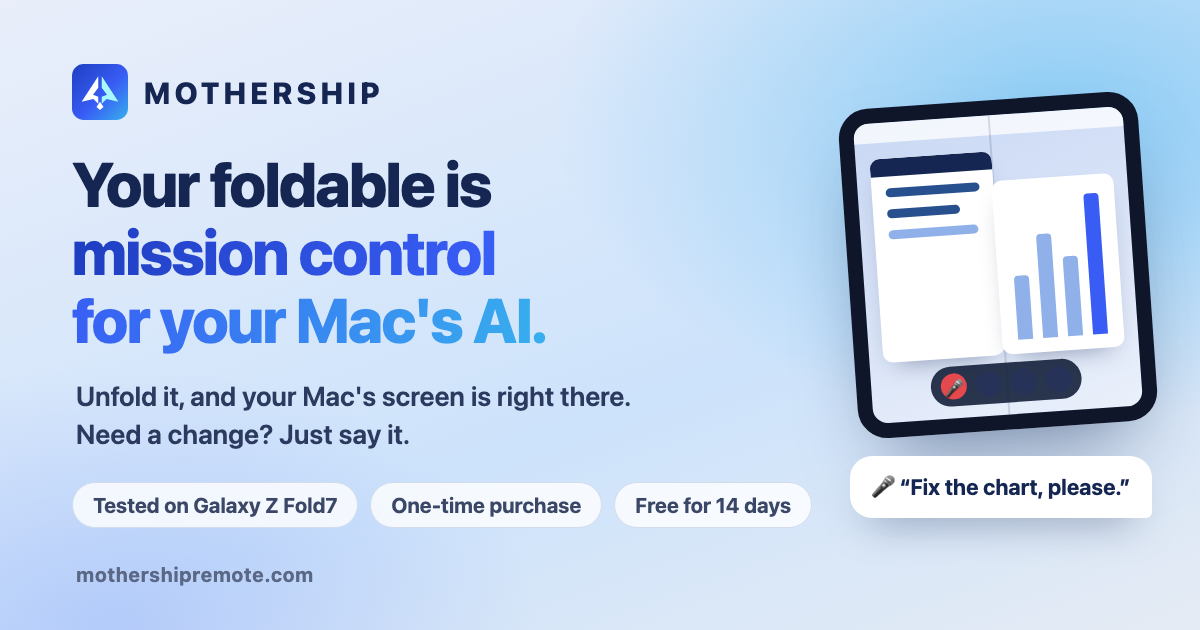
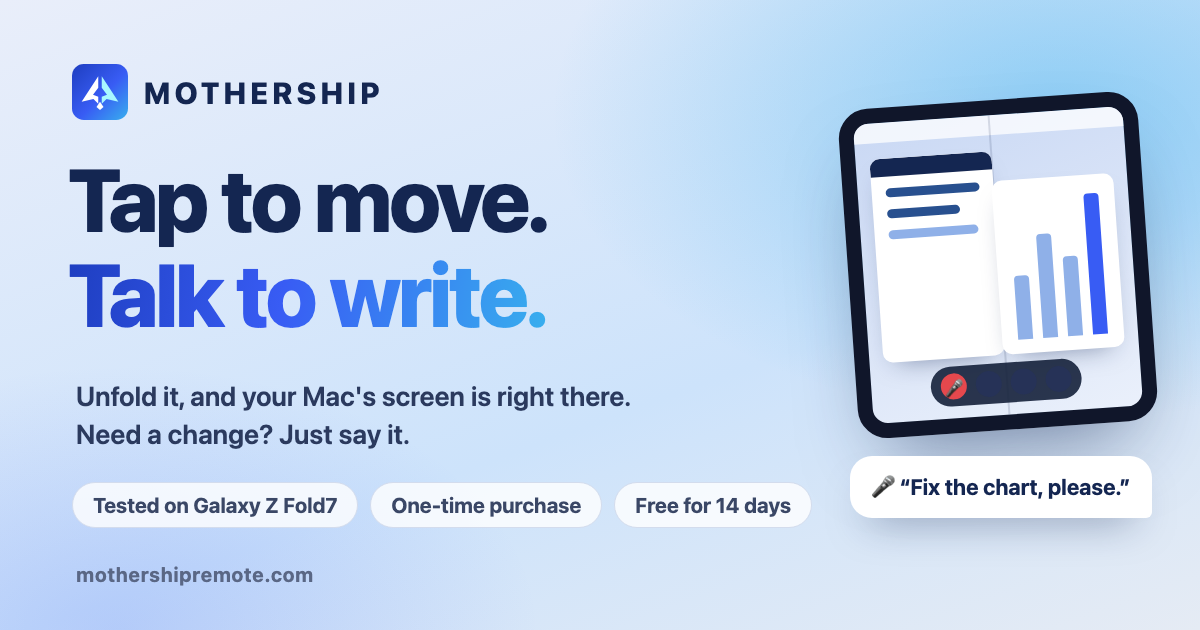
英語版の OGP 画像を新しい見出し「Tap to move. Talk to write.」に：3 行→2 行になった分、見出しを 62→88px に。モックと本番（og-en.png）

Changed region(s): [[0.0617, 0.2413, 0.4625, 0.573]]

diff --git a/mock/design_en/tools/og/og.html b/mock/design_en/tools/og/og.html
@@ -5,7 +5,7 @@ body{font-family:system-ui,-apple-system,"Helvetica Neue",Arial,sans-serif;color
  background:radial-gradient(60% 70% at 88% 18%,rgba(56,175,238,.45),transparent 70%),radial-gradient(50% 60% at 10% 100%,rgba(56,92,244,.18),transparent 70%),linear-gradient(160deg,#e9eefa 0%,#cde3fb 60%,#e5ebf4 100%);position:relative}
 .brand{position:absolute;left:72px;top:64px;display:flex;align-items:center;gap:16px;font-weight:800;font-size:30px;letter-spacing:.14em}
 .brand svg{width:56px;height:56px}
-h1{position:absolute;left:72px;top:150px;font-size:62px;font-weight:800;line-height:1.1;letter-spacing:-.025em}
+h1{position:absolute;left:68px;top:152px;font-size:88px;font-weight:800;line-height:1.08;letter-spacing:-.03em}
 h1 span{background:linear-gradient(100deg,#1e3ec0,#385cf4 45%,#38afee);-webkit-background-clip:text;background-clip:text;color:transparent}
 .lead{position:absolute;left:76px;top:378px;font-size:27px;line-height:1.4;font-weight:600;color:#2b3a5e}
 .chips{position:absolute;left:72px;top:482px;display:flex;gap:12px}
@@ -24,7 +24,7 @@ h1 span{background:linear-gradient(100deg,#1e3ec0,#385cf4 45%,#38afee);-webkit-b
 .say{position:absolute;right:48px;top:456px;padding:16px 22px;border-radius:22px 22px 6px 22px;background:#fff;box-shadow:0 20px 40px -20px rgba(20,38,81,.5);font-size:22px;font-weight:700;color:#142651}
 </style></head><body>
 <div class="brand"><svg viewBox="0 0 128 128"><defs><linearGradient id="bm" x2="1" y2="1"><stop stop-color="#1e3ec0"/><stop offset=".55" stop-color="#385cf4"/><stop offset="1" stop-color="#38afee"/></linearGradient></defs><rect width="128" height="128" rx="27" fill="url(#bm)"/><path d="M60 28 22 86 49 80 60 91 60 75 48 70 60 54Z" fill="#fff"/><path d="M68 28 106 86 79 80 68 91 68 75 80 70 68 54Z" fill="#a8f8ff"/><path d="M64 86 72 98 64 105 56 98Z" fill="#fff"/></svg>MOTHERSHIP</div>
-<h1>Your foldable is<br><span>mission control<br>for your Mac's AI.</span></h1>
+<h1>Tap to move.<br><span>Talk to write.</span></h1>
 <p class="lead">Unfold it, and your Mac's screen is right there.<br>Need a change? Just say it.</p>
 <div class="chips"><b>Tested on Galaxy Z Fold7</b><b>One-time purchase</b><b>Free for 14 days</b></div>
 <p class="url">mothershipremote.com</p>
